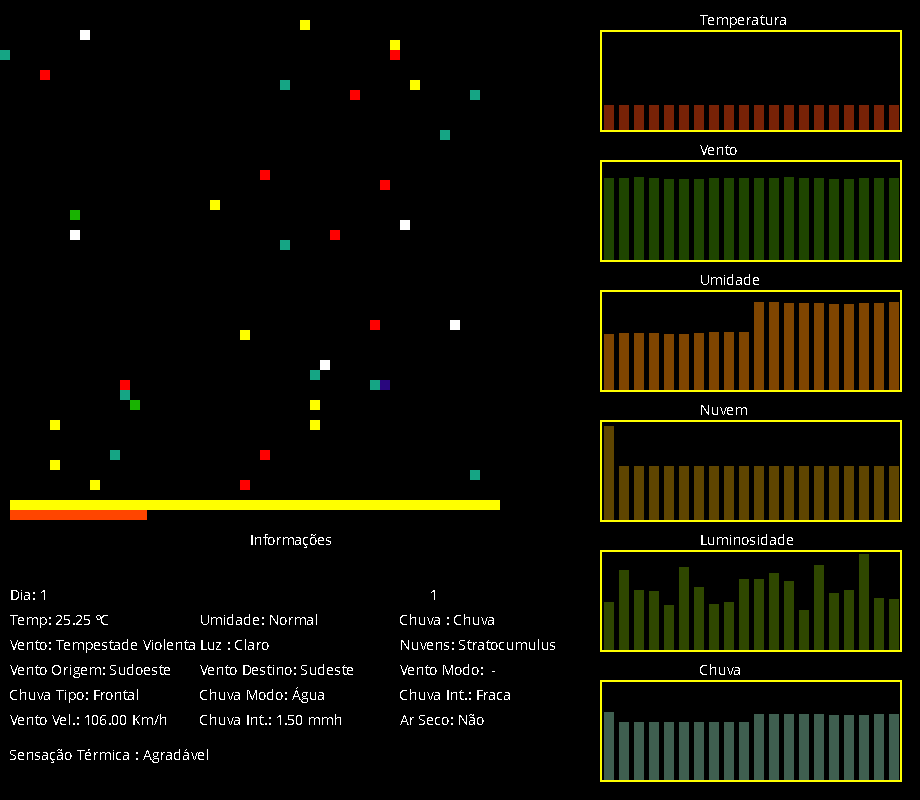
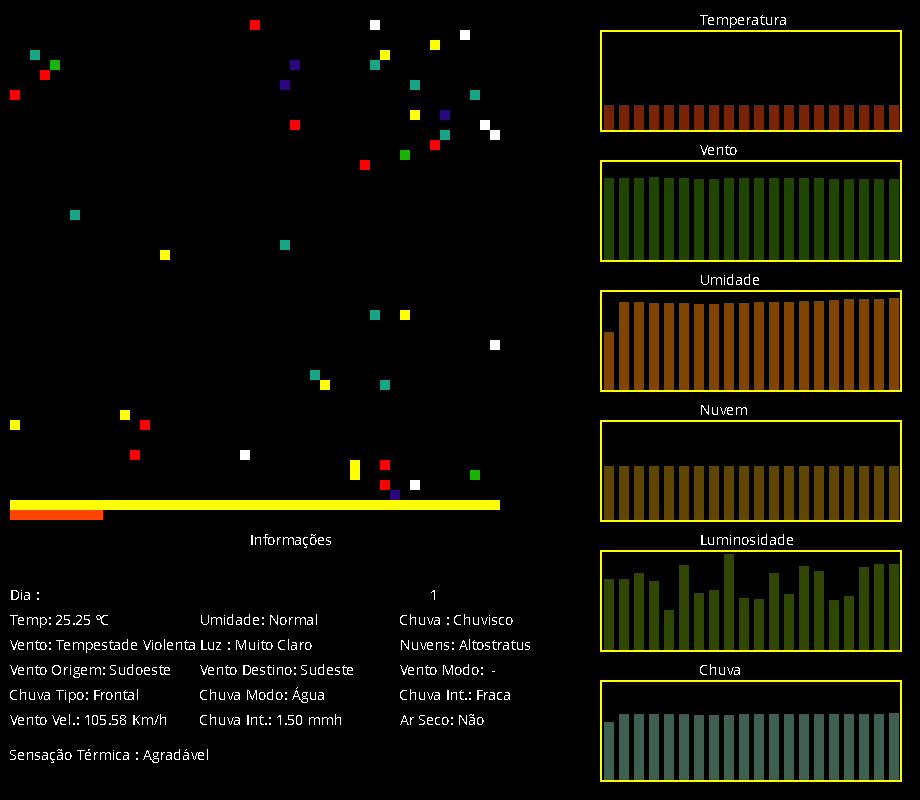
Arrumando detalhe em Interface

diff --git a/src/main/atualizador.go b/src/main/atualizador.go
@@ -66,7 +66,7 @@ func TextosInfo(e *ecossistema.Ambiente, s *sdl.Surface, EscritorC *Escritor) {
 
 	var alturador int32 = 585
 
-	EscritorC.EscreveBranco(10, alturador, fmt.Sprintf("Dia: %d", e.Dia()))
+	EscritorC.EscreveBranco(10, alturador, fmt.Sprintf("Dia :"))
 	EscritorC.EscreveBranco(430, alturador, fmt.Sprintf("%d", e.Dia()))
 
 	alturador += 25
